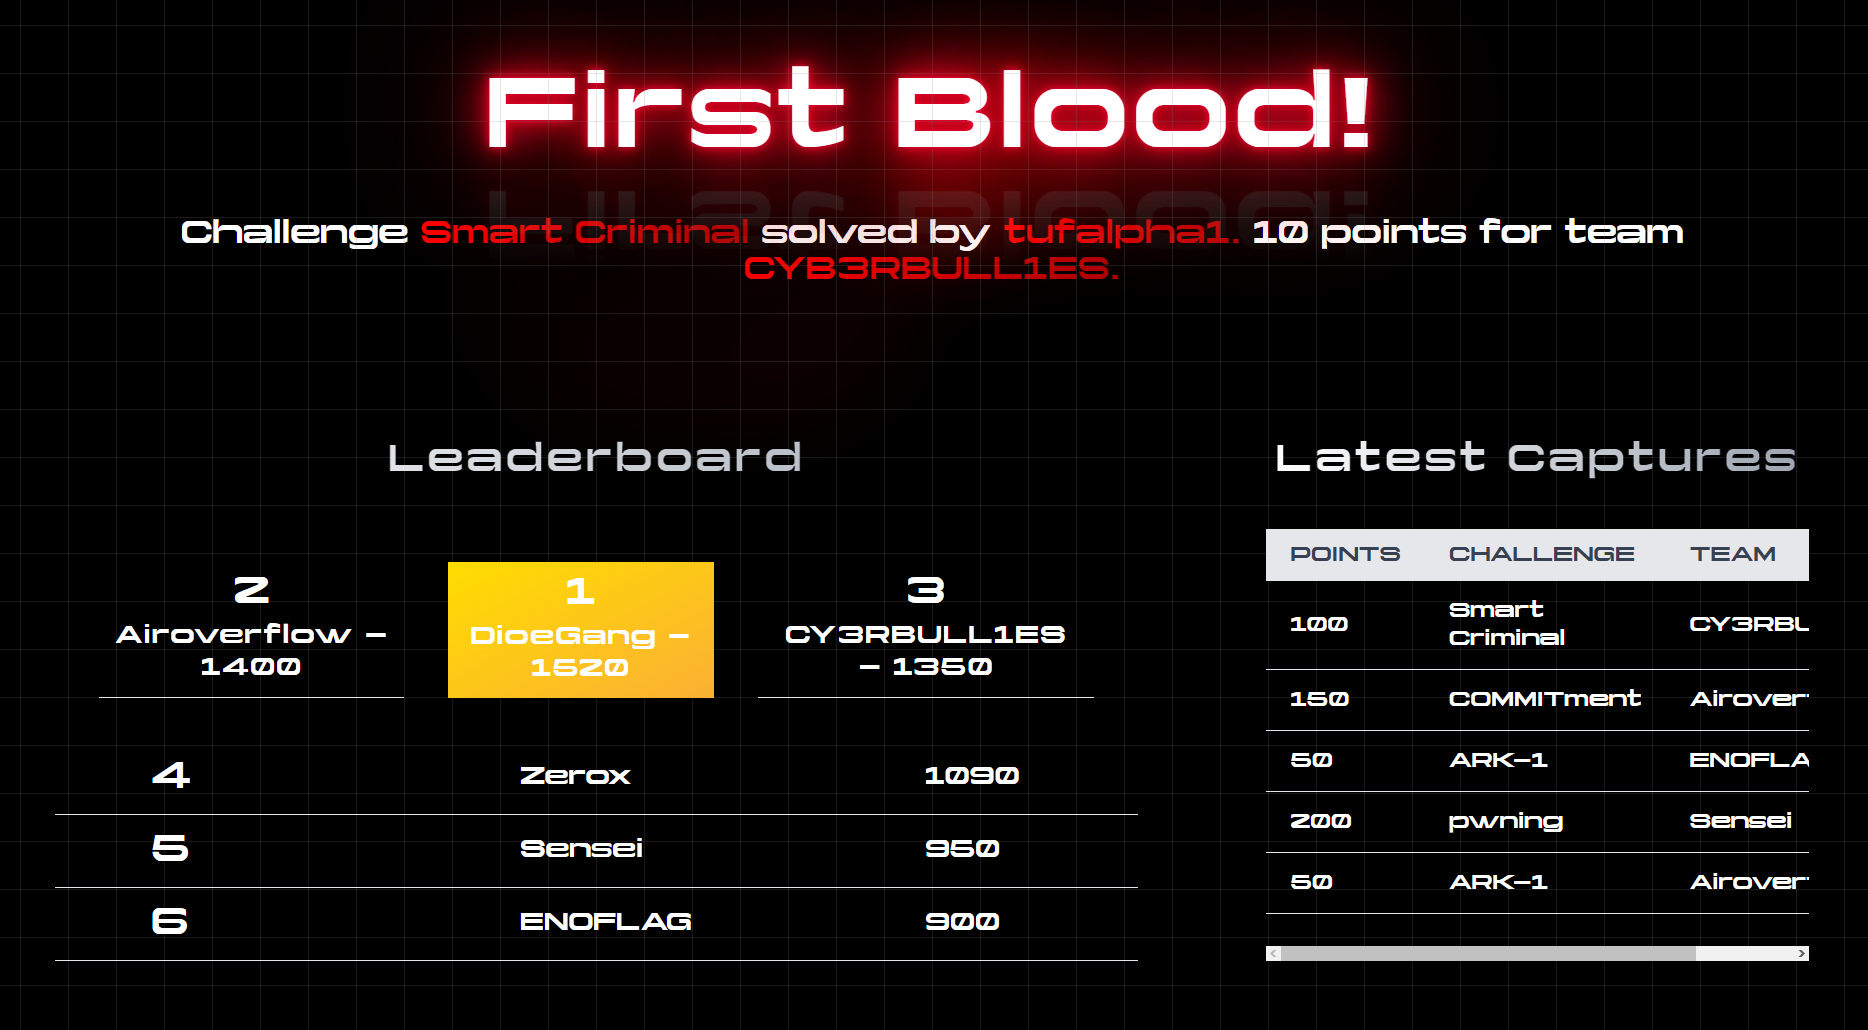
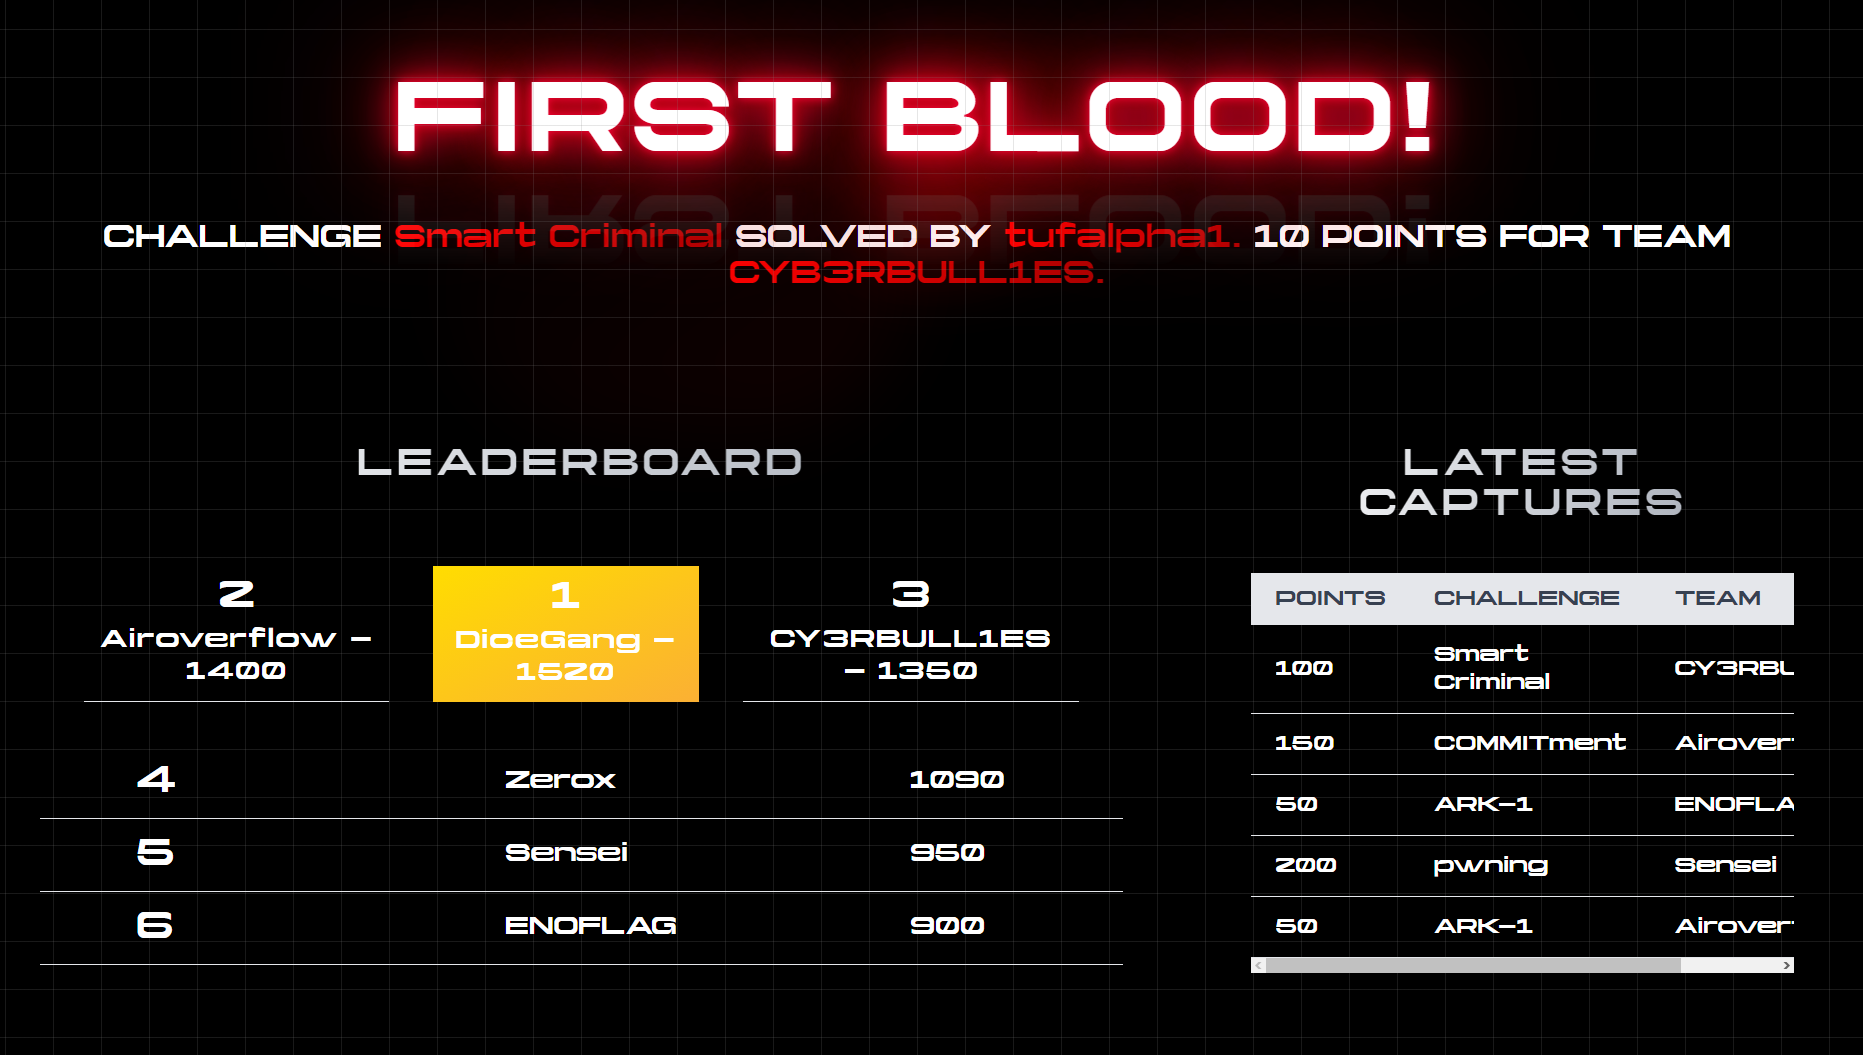
change project screenshots

diff --git a/src/app/ctf/page.tsx b/src/app/ctf/page.tsx
@@ -17,7 +17,7 @@ const page = () => {
           className="absolute z-1"
           layout="fill"
           objectFit="cover"
-          src={ctfImg}
+          src={ctf2}
           alt="/"
         />
         <div className="absolute top-[70%] max-w-[1240px] w-full left-[50%] right-[50%] translate-x-[-50%] translate-y-[-50%] text-white z-10 p-2">
@@ -38,7 +38,7 @@ const page = () => {
             for the new leader.
           </p>
           <div className="mt-10 flex justify-center">
-            <button className="text-white bg-gradient-to-r from-[#19fb9b] via-[#199890] to-[#005f59] hover:bg-gradient-to-br focus:ring-4 focus:outline-none focus:ring-blue-300 dark:focus:ring-blue-800 font-medium rounded-lg text-sm px-5 py-2.5 text-center mr-2 mb-2">
+            <button className="text-black font-bold bg-gradient-to-r from-[#FFDD00] to-[#FBB034] hover:bg-gradient-to-br focus:ring-4 focus:outline-none focus:ring-blue-300 dark:focus:ring-blue-800 rounded-lg text-sm px-5 py-2.5 text-center mr-2 mb-2">
               <Link href="https://github.com/Tufalpha1/PCC-Frontend">Code</Link>
             </button>
             <button className="text-white bg-gray-900 hover:bg-gray-900 focus:outline-none focus:ring-4 focus:ring-gray-300 font-medium rounded-lg text-sm px-5 py-2.5 mr-2 mb-2 dark:bg-gray-800 dark:hover:bg-gray-700 dark:focus:ring-gray-700 dark:border-gray-700">
@@ -50,33 +50,6 @@ const page = () => {
         </div>
         <h2 className="text-center py-4 mt-16">More Snaps</h2>
         <div className="mx-auto mt-10 grid max-w-lg grid-cols-1 items-center gap-y-10 gap-8 sm:max-w-xl lg:grid-cols-3 lg:mx-0 lg:max-w-none cursor-pointer">
-          <div className="hover:scale-105 ease-in duration-100 flex flex-col items-center rounded-xl shadow-xl shadow-gray-700">
-            <Image
-              className="col-span-1 max-h-full w-full object-cover sm:col-start-2 rounded-xl"
-              src={firstBlood}
-              alt="first-blood"
-              width={700}
-              height={700}
-            />
-          </div>
-          <div className="hover:scale-105 ease-in duration-100 flex flex-col items-center rounded-xl shadow-xl shadow-gray-700">
-            <Image
-              className="col-span-1 col-start-2 max-h-full w-full object-cover sm:col-start-auto rounded-xl"
-              src={ctfImg}
-              alt="Leaderboard-and-solves"
-              width={700}
-              height={700}
-            />
-          </div>
-          <div className="hover:scale-105 ease-in duration-100 flex flex-col items-center rounded-xl shadow-xl shadow-gray-700">
-            <Image
-              className="col-span-1 col-start-2 max-h-full w-full object-cover sm:col-start-auto rounded-xl"
-              src={newLeader}
-              alt="new-leader"
-              width={700}
-              height={700}
-            />
-          </div>
           <div className="hover:scale-105 ease-in duration-100 flex flex-col items-center rounded-xl shadow-xl shadow-gray-700">
             <Image
               className="col-span-1 max-h-full w-full object-cover sm:col-start-2 rounded-xl"
@@ -102,6 +75,33 @@ const page = () => {
               alt="new-leader"
               width={1846}
               height={1006}
+            />
+          </div>
+          <div className="hover:scale-105 ease-in duration-100 flex flex-col items-center rounded-xl shadow-xl shadow-gray-700">
+            <Image
+              className="col-span-1 max-h-full w-full object-cover sm:col-start-2 rounded-xl"
+              src={firstBlood}
+              alt="first-blood"
+              width={700}
+              height={700}
+            />
+          </div>
+          <div className="hover:scale-105 ease-in duration-100 flex flex-col items-center rounded-xl shadow-xl shadow-gray-700">
+            <Image
+              className="col-span-1 col-start-2 max-h-full w-full object-cover sm:col-start-auto rounded-xl"
+              src={ctfImg}
+              alt="Leaderboard-and-solves"
+              width={700}
+              height={700}
+            />
+          </div>
+          <div className="hover:scale-105 ease-in duration-100 flex flex-col items-center rounded-xl shadow-xl shadow-gray-700">
+            <Image
+              className="col-span-1 col-start-2 max-h-full w-full object-cover sm:col-start-auto rounded-xl"
+              src={newLeader}
+              alt="new-leader"
+              width={700}
+              height={700}
             />
           </div>
         </div>

diff --git a/src/components/Projects.tsx b/src/components/Projects.tsx
@@ -5,7 +5,7 @@ import cysecopsImg from "../../public/assets/projects/cysecops.png";
 import aucssImg from "../../public/assets/projects/aucss.png";
 import intelligenImage from "../../public/assets/projects/intelligen.png";
 import decentralizedConnect from "../../public/assets/projects/decentralizedconnect.png";
-import ctf from "../../public/assets/projects/ctf-scoreboard.png";
+import ctf from "../../public/assets/projects/ctf-scoreboard2.png";
 import DesignItem from "./DesignItem";
 import ProjectItem2 from "./ProjectItem2";
 

diff --git a/src/components/ProjectItem2.tsx b/src/components/ProjectItem2.tsx
@@ -17,7 +17,7 @@ const ProjectItem2: React.FC<ProjectItem2Props> = ({
 }) => {
   return (
     <div
-      className={`relative flex items-center justify-center h-auto w-full shadow-xl shadow-gray-400 rounded-xl group hover:bg-gradient-to-r from-[#19fb9b] via-[#199890] to-[#005f59]`}
+      className={`relative flex items-center justify-center h-auto w-full shadow-xl shadow-gray-400 rounded-xl group hover:bg-gradient-to-r from-[#FFDD00] to-[#FBB034]`}
     >
       <Image
         className="rounded-xl group-hover:opacity-10"
